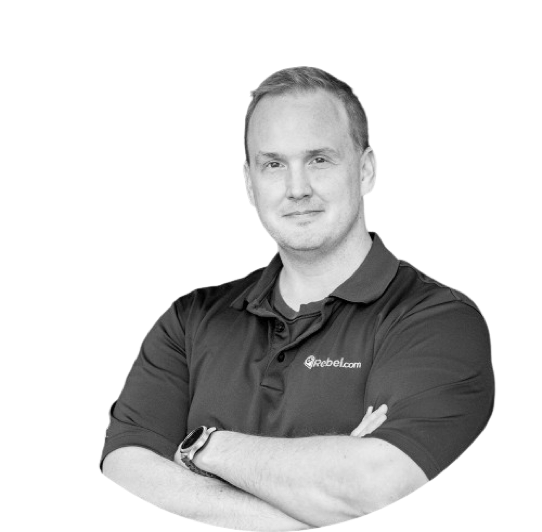
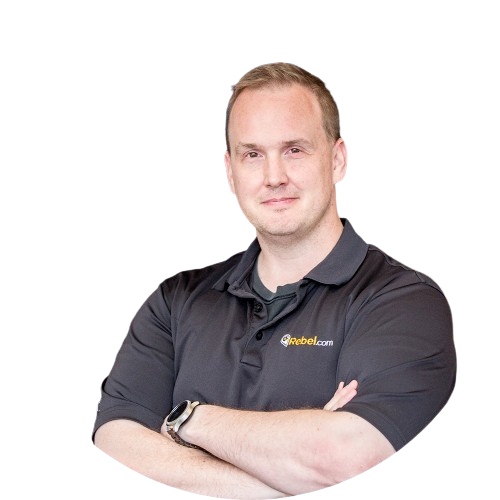
All four platforms done with demo mode

diff --git a/src/routes/index.tsx b/src/routes/index.tsx
@@ -5,9 +5,9 @@ export const Route = createFileRoute("/")({
   component: Index,
   head: () => ({
     meta: [
-      { title: "Compass 360 Suite — Navigate to Freedom" },
+      { title: "Fairwinds 360 Suite — Navigate to Freedom" },
       { name: "description", content: "Instruments for personal freedom. Navigate the turbulent waters of modern life." },
-      { property: "og:title", content: "Compass 360 Suite — Navigate to Freedom" },
+      { property: "og:title", content: "Fairwinds 360 Suite — Navigate to Freedom" },
       { property: "og:image", content: "/images/hero.jpg" },
     ],
   }),
@@ -102,8 +102,8 @@ function Logo() {
   return (
     <a href="#top" className="block">
       <img
-        src="/images/Compass 360 logo no background.png"
-        alt="Compass 360"
+        src="/images/fairwinds-logo.png"
+        alt="Fairwinds 360"
         className="h-14 md:h-20 w-auto"
       />
     </a>
@@ -113,10 +113,10 @@ function Logo() {
 // ── Nav ───────────────────────────────────────────────────────────────────────
 
 const productTabs = [
-  { name: "Finance", count: "01", href: "https://finance.adamwhite.link" },
-  { name: "Fit",     count: "02", href: "https://fit.adamwhite.link" },
-  { name: "Function", count: "03", href: "#products" },
-  { name: "Portfolio", count: "04", href: "#products" },
+  { name: "Finance", count: "01", href: "https://finance.fairwinds360.com" },
+  { name: "Fit",     count: "02", href: "https://fit.fairwinds360.com" },
+  { name: "Function", count: "03", href: "https://function.fairwinds360.com" },
+  { name: "Portfolio", count: "04", href: "https://portfolio.fairwinds360.com" },
 ];
 
 function Nav() {
@@ -163,6 +163,7 @@ function Nav() {
         style={{ paddingLeft: "1.5em", paddingRight: "1.5em" }}>
         {productTabs.map((tab, i) => (
           <a key={tab.name} href={tab.href}
+            target="_blank" rel="noopener noreferrer"
             onClick={() => setActiveTab(i)}
             className="flex items-baseline gap-1 font-mono text-[11px] transition-colors"
             style={{ color: activeTab === i ? "rgba(255,255,255,0.9)" : "rgba(255,255,255,0.35)" }}>
@@ -221,7 +222,7 @@ function Hero() {
           <h1 style={{ fontFamily: "'Cormorant Garamond', serif",
                        fontSize: "clamp(2.2em, 10vw, 3em)", lineHeight: 1 }}
             className="font-light text-white uppercase">
-            Command Your Freedom
+            Strategy. Visibility. Freedom.
           </h1>
           <p className="mt-3 text-white/45 text-[11px] uppercase" style={{ letterSpacing: "0.1em" }}>
             instruments for the turbulent waters of modern life
@@ -323,10 +324,10 @@ function Problem() {
 // ── Products ──────────────────────────────────────────────────────────────────
 
 const products = [
-  { icon: "◐", name: "Compass Finance", tagline: "Complete personal finance intelligence", desc: "Real-time budgeting, cash flow forecasting, credit tracking, and AI-powered transaction insights — all in one instrument.", status: "LIVE", live: true, href: "https://finance.adamwhite.link" },
-  { icon: "◇", name: "Compass Fit", tagline: "Training, nutrition, and recovery tracking", desc: "Log workouts, track macros, monitor recovery metrics. Your body as a system to be understood and optimised.", status: "LIVE", live: true, href: "https://fit.adamwhite.link" },
-  { icon: "△", name: "Compass Function", tagline: "Daily intention and habit engine", desc: "Set daily intentions, build systems that compound, and stay on bearing toward your long-term goals.", status: "IN DEVELOPMENT", live: false, href: null },
-  { icon: "▢", name: "Compass Portfolio", tagline: "Your story, your work, your legacy", desc: "A living portfolio of who you are and what you've built. Shareable, searchable, yours.", status: "IN DEVELOPMENT", live: false, href: null },
+  { icon: "◐", name: "Fairwinds Finance", tagline: "Complete personal finance intelligence", desc: "Real-time budgeting, cash flow forecasting, credit tracking, and AI-powered transaction insights — all in one instrument.", status: "LIVE", live: true, href: "https://finance.fairwinds360.com" },
+  { icon: "◇", name: "Fairwinds Fit", tagline: "Training, nutrition, and recovery tracking", desc: "Log workouts, track macros, monitor recovery metrics. Your body as a system to be understood and optimised.", status: "LIVE", live: true, href: "https://fit.fairwinds360.com" },
+  { icon: "△", name: "Fairwinds Function", tagline: "Daily intention and habit engine", desc: "Set daily intentions, build systems that compound, and stay on bearing toward your long-term goals.", status: "LIVE", live: true, href: "https://function.fairwinds360.com" },
+  { icon: "▢", name: "Fairwinds Portfolio", tagline: "Career journal and archive", desc: "A private logbook for the work that matters. Document projects, capture learnings, and build a record of what you've shipped.", status: "LIVE", live: true, href: "https://portfolio.fairwinds360.com" },
 ];
 
 function ProductCard({ product }: { product: typeof products[0] }) {
@@ -368,6 +369,7 @@ function ProductCard({ product }: { product: typeof products[0] }) {
         </span>
         {product.live && product.href && (
           <a href={product.href}
+            target="_blank" rel="noopener noreferrer"
             className="font-mono text-[10px] uppercase tracking-[0.2em] text-white/40 hover:text-white transition-colors flex items-center gap-2">
             Launch <span>→</span>
           </a>
@@ -405,22 +407,22 @@ function Products() {
 
 const testimonials = [
   {
-    image: "/images/testimonial-1.png",
-    quote: "I've given everything to Adam, every part of myself. I know I'm in good hands with the Compass 360 Suite.",
+    image: "/images/testimonial-1.jpg",
+    quote: "I've given everything to Adam, every part of myself. I know I'm in good hands with the Fairwinds 360 Suite.",
     name: "Margot Robbie",
     title: "Actress, Producer",
   },
   {
-    image: "/images/testimonial-2.png",
-    quote: "Adam's powerful Compass 360 Suite has transformed how I manage my finances. I now rely on Adam not just to manage my own life, but for financial and investment advice. He's a true hero.",
+    image: "/images/testimonial-2.jpg",
+    quote: "Adam's powerful Fairwinds 360 Suite has transformed how I manage my finances. I now rely on Adam not just to manage my own life, but for financial and investment advice. He's a true hero.",
     name: "Warren Buffett",
     title: "Chairman and CEO, Berkshire Hathaway",
   },
   {
     image: "/images/testimonial-3.png",
-    quote: "The Compass 360 Suite has been a game-changer for my financial management. And remember, I'm not just a client, I'm also the owner!",
+    quote: "The Fairwinds 360 Suite has been a game-changer for my financial management. And remember, I'm not just a client, I'm also the owner!",
     name: "Adam White",
-    title: "Founder, Compass 360",
+    title: "Founder, Fairwinds 360",
   },
 ];
 
@@ -463,13 +465,13 @@ function Testimonials() {
           <div className="grid grid-cols-1 md:grid-cols-2 gap-px bg-white/[0.04]">
 
             {/* Image */}
-            <div className="relative overflow-hidden bg-black/40 rounded-2xl" style={{ minHeight: 340 }}>
+            <div className="relative overflow-hidden bg-black/40 rounded-2xl" style={{ aspectRatio: '1 / 1' }}>
               <Brackets size={20} color="rgba(108,92,231,0.4)" />
               <img
                 key={current}
                 src={t.image}
                 alt={t.name}
-                className="absolute inset-0 w-full h-full object-cover transition-opacity duration-500"
+                className="absolute inset-0 w-full h-full object-contain transition-opacity duration-500"
                 style={{ opacity: fading ? 0 : 1 }}
               />
               <div className="absolute inset-0"
@@ -517,70 +519,175 @@ function Testimonials() {
 // ── Pricing ───────────────────────────────────────────────────────────────────
 
 const tiers = [
-  { name: "Compass Finance", price: "Free", sub: "Always", features: ["Full finance intelligence", "Unlimited transactions", "AI categorisation", "Plaid bank sync"], highlight: false },
-  { name: "Compass 360 Suite", price: "Free", sub: "All four apps, forever", features: ["Finance · Fit · Tasks · Portfolio", "Unified command dashboard", "Cross-app intelligence", "Founding member status"], highlight: true },
-  { name: "Compass Pro", price: "Free", sub: "Priority + early access", features: ["All Suite features", "Early feature drops", "Direct feedback channel", "First on every new instrument"], highlight: false },
+  {
+    name: "Fairwinds Finance",
+    tagline: "Personal finance intelligence",
+    monthly: 19.99,
+    annualMonthly: 15.99,
+    annualTotal: 191.99,
+    features: [
+      "Real-time budget tracking",
+      "Unlimited transaction imports",
+      "AI-powered categorisation",
+      "Cash flow forecasting (90 days)",
+      "Credit & debt payoff calculator",
+      "Plaid bank sync",
+    ],
+    highlight: false,
+    badge: null,
+  },
+  {
+    name: "Finance + Fit",
+    tagline: "Money and body in sync",
+    monthly: 29.99,
+    annualMonthly: 23.99,
+    annualTotal: 287.99,
+    features: [
+      "Everything in Finance",
+      "Workout logging & programming",
+      "Macro & nutrition tracking",
+      "Recovery metrics",
+      "Training history & analytics",
+    ],
+    highlight: false,
+    badge: null,
+  },
+  {
+    name: "360 Suite",
+    tagline: "The full instrument panel",
+    monthly: 49.99,
+    annualMonthly: 39.99,
+    annualTotal: 479.99,
+    features: [
+      "Everything in Finance + Fit",
+      "Career journal & portfolio",
+      "Daily intention & habit engine",
+      "Cross-app intelligence",
+      "Priority support & early access",
+    ],
+    highlight: true,
+    badge: "Most Popular",
+  },
 ];
 
 function Pricing() {
   const { ref, inView } = useInView();
+  const [annual, setAnnual] = useState(false);
+
   return (
     <section id="pricing" className="border-t border-white/[0.06] px-6 py-32 md:py-40">
       <div className="mx-auto max-w-6xl">
         <SectionLabel>Pricing</SectionLabel>
-        <h2 className={`font-serif font-light text-center text-5xl md:text-7xl text-white mb-20 transition-all duration-1000 ${inView ? "opacity-100 translate-y-0" : "opacity-0 translate-y-6"}`}
+        <h2 className={`font-serif font-light text-center text-5xl md:text-7xl text-white mb-12 transition-all duration-1000 ${inView ? "opacity-100 translate-y-0" : "opacity-0 translate-y-6"}`}
           style={{ fontFamily: "'Cormorant Garamond', serif" }}>
           Choose your altitude.
         </h2>
 
-        <div ref={ref} className="grid grid-cols-1 md:grid-cols-3 gap-4">
-          {tiers.map((t, i) => (
-            <div key={t.name}
-              className={`relative flex flex-col p-10 backdrop-blur-sm transition-all duration-700 ${inView ? "opacity-100 translate-y-0" : "opacity-0 translate-y-6"}`}
+        {/* Billing toggle */}
+        <div className={`flex items-center justify-center gap-3 mb-16 transition-all duration-700 ${inView ? "opacity-100" : "opacity-0"}`}>
+          <button
+            onClick={() => setAnnual(false)}
+            className="font-mono text-[11px] uppercase tracking-[0.2em] px-5 py-2 transition-all duration-200"
+            style={{
+              background: !annual ? "rgba(108,92,231,0.15)" : "transparent",
+              border: `1px solid ${!annual ? ACCENT : "rgba(255,255,255,0.15)"}`,
+              color: !annual ? "rgba(255,255,255,0.9)" : "rgba(255,255,255,0.35)",
+            }}>
+            Monthly
+          </button>
+          <button
+            onClick={() => setAnnual(true)}
+            className="font-mono text-[11px] uppercase tracking-[0.2em] px-5 py-2 transition-all duration-200 flex items-center gap-2"
+            style={{
+              background: annual ? "rgba(108,92,231,0.15)" : "transparent",
+              border: `1px solid ${annual ? ACCENT : "rgba(255,255,255,0.15)"}`,
+              color: annual ? "rgba(255,255,255,0.9)" : "rgba(255,255,255,0.35)",
+            }}>
+            Annual
+            <span className="px-1.5 py-0.5 text-[9px] tracking-[0.15em]"
               style={{
-                transitionDelay: `${i * 0.12}s`,
-                border: `1px solid ${t.highlight ? ACCENT : "rgba(255,255,255,0.1)"}`,
-                background: t.highlight ? `rgba(108,92,231,0.06)` : "rgba(255,255,255,0.015)",
+                background: annual ? ACCENT : "rgba(255,255,255,0.08)",
+                color: annual ? "#fff" : "rgba(255,255,255,0.4)",
+                borderRadius: 2,
               }}>
-              {t.highlight && (
-                <>
-                  <Brackets size={16} color={ACCENT} />
-                  <span className="absolute -top-3 left-1/2 -translate-x-1/2 px-3 py-1 font-mono text-[10px] tracking-[0.25em] uppercase"
-                    style={{ background: "#0a0a0f", border: `1px solid ${ACCENT}`, color: ACCENT }}>
-                    Recommended
+              SAVE 20%
+            </span>
+          </button>
+        </div>
+
+        <div ref={ref} className="grid grid-cols-1 md:grid-cols-3 gap-4">
+          {tiers.map((t, i) => {
+            const price = annual ? t.annualMonthly : t.monthly;
+            return (
+              <div key={t.name}
+                className={`relative flex flex-col p-10 backdrop-blur-sm transition-all duration-700 ${inView ? "opacity-100 translate-y-0" : "opacity-0 translate-y-6"}`}
+                style={{
+                  transitionDelay: `${i * 0.12}s`,
+                  border: `1px solid ${t.highlight ? ACCENT : "rgba(255,255,255,0.1)"}`,
+                  background: t.highlight ? `rgba(108,92,231,0.06)` : "rgba(255,255,255,0.015)",
+                }}>
+
+                {t.highlight && (
+                  <>
+                    <Brackets size={16} color={ACCENT} />
+                    <span className="absolute -top-3 left-1/2 -translate-x-1/2 px-3 py-1 font-mono text-[10px] tracking-[0.25em] uppercase"
+                      style={{ background: "#0a0a0f", border: `1px solid ${ACCENT}`, color: ACCENT }}>
+                      {t.badge}
+                    </span>
+                  </>
+                )}
+
+                {/* Name + tagline */}
+                <HudLabel className="mb-1">{t.name}</HudLabel>
+                <p className="font-mono text-[10px] tracking-[0.15em] mb-6" style={{ color: "rgba(255,255,255,0.25)" }}>
+                  {t.tagline}
+                </p>
+
+                {/* Price */}
+                <div className="flex items-end gap-2 mb-1">
+                  <span className="font-serif font-light text-5xl text-white leading-none"
+                    style={{ fontFamily: "'Cormorant Garamond', serif" }}>
+                    ${price.toFixed(2)}
                   </span>
-                </>
-              )}
+                  <HudLabel className="mb-1">/ mo</HudLabel>
+                </div>
 
-              <HudLabel className="mb-4">{t.name}</HudLabel>
-              <div className="font-serif font-light text-6xl text-white mt-2"
-                style={{ fontFamily: "'Cormorant Garamond', serif" }}>
-                {t.price}
+                {/* Annual callout */}
+                <div className="mb-8" style={{ minHeight: "1.25rem" }}>
+                  {annual ? (
+                    <HudLabel style={{ color: "rgba(255,255,255,0.3)" }}>
+                      Billed ${t.annualTotal.toFixed(2)} annually
+                    </HudLabel>
+                  ) : (
+                    <HudLabel style={{ color: "rgba(255,255,255,0.18)" }}>
+                      or ${t.annualMonthly.toFixed(2)}/mo billed annually
+                    </HudLabel>
+                  )}
+                </div>
+
+                <Hairline className="mb-8" />
+
+                <ul className="space-y-3 flex-1">
+                  {t.features.map(f => (
+                    <li key={f} className="flex items-start gap-3 text-sm text-white/60">
+                      <span style={{ color: ACCENT }} className="shrink-0 mt-0.5">—</span>
+                      {f}
+                    </li>
+                  ))}
+                </ul>
+
+                <a href="#cta"
+                  className="mt-10 block text-center py-3 font-mono text-[11px] uppercase tracking-[0.25em] transition-all duration-300"
+                  style={t.highlight
+                    ? { background: ACCENT, color: "#fff" }
+                    : { border: "1px solid rgba(255,255,255,0.2)", color: "rgba(255,255,255,0.7)" }}
+                  onMouseEnter={e => { if (!t.highlight) (e.currentTarget.style.borderColor = ACCENT); }}
+                  onMouseLeave={e => { if (!t.highlight) (e.currentTarget.style.borderColor = "rgba(255,255,255,0.2)"); }}>
+                  Get Access
+                </a>
               </div>
-              <HudLabel className="mt-1 mb-8">{t.sub}</HudLabel>
-
-              <Hairline className="mb-8" />
-
-              <ul className="space-y-3 flex-1">
-                {t.features.map(f => (
-                  <li key={f} className="flex items-start gap-3 text-sm text-white/60">
-                    <span style={{ color: ACCENT }} className="flex-shrink-0 mt-0.5">—</span>
-                    {f}
-                  </li>
-                ))}
-              </ul>
-
-              <a href="#cta" className="mt-10 block text-center py-3 font-mono text-[11px] uppercase tracking-[0.25em] transition-all duration-300"
-                style={t.highlight
-                  ? { background: ACCENT, color: "#fff" }
-                  : { border: "1px solid rgba(255,255,255,0.2)", color: "rgba(255,255,255,0.7)" }
-                }
-                onMouseEnter={e => { if (!t.highlight) (e.currentTarget.style.borderColor = ACCENT); }}
-                onMouseLeave={e => { if (!t.highlight) (e.currentTarget.style.borderColor = "rgba(255,255,255,0.2)"); }}>
-                Get Access
-              </a>
-            </div>
-          ))}
+            );
+          })}
         </div>
       </div>
     </section>
@@ -637,7 +744,7 @@ function Footer() {
       <div className="mx-auto max-w-7xl flex flex-col md:flex-row items-center justify-between gap-6">
         <div className="flex items-center gap-8">
           <Logo />
-          <HudLabel>© 2026 Compass 360</HudLabel>
+          <HudLabel>© 2026 Fairwinds 360</HudLabel>
         </div>
         <div className="flex items-center gap-6">
           {["Privacy", "Terms"].map(l => (

diff --git a/src/routes/__root.tsx b/src/routes/__root.tsx
@@ -82,10 +82,8 @@ export const Route = createRootRouteWithContext<{ queryClient: QueryClient }>()(
       { name: "twitter:site", content: "@Lovable" },
     ],
     links: [
-      {
-        rel: "stylesheet",
-        href: appCss,
-      },
+      { rel: "stylesheet", href: appCss },
+      { rel: "icon", type: "image/svg+xml", href: "/favicon.svg" },
     ],
   }),
   shellComponent: RootShell,